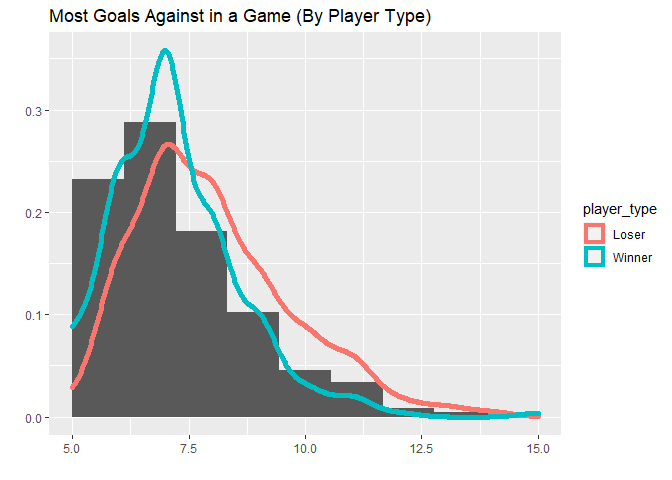
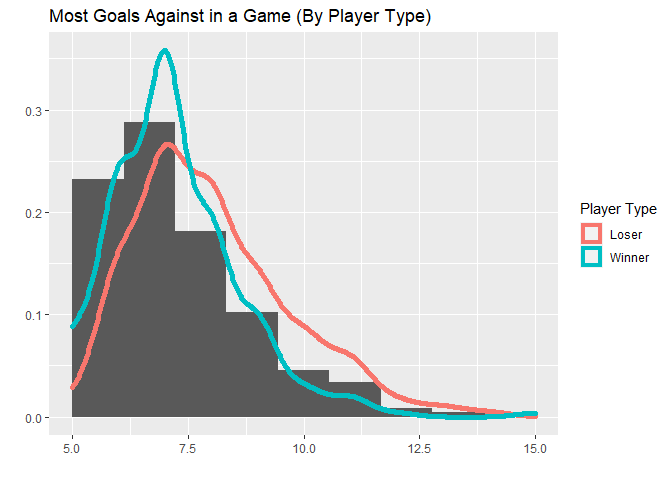
fixing label for last graph legend

diff --git a/readme.html b/readme.html
@@ -384,7 +384,7 @@ body {
 <span id="cb12-15"><a href="#cb12-15" aria-hidden="true" tabindex="-1"></a>      <span class="fu">xlab</span>(<span class="st">&#39;&#39;</span>) <span class="sc">+</span> <span class="fu">ylab</span>(<span class="st">&#39;Goals Conceded&#39;</span>)</span></code></pre></div>
 <p>Though I expected there to be a difference to be winning and losing teams, the difference is quite stark. Neither boxplot really intersects the other for goals given up or scored.</p>
 <div class="sourceCode" id="cb13"><pre class="sourceCode r"><code class="sourceCode r"><span id="cb13-1"><a href="#cb13-1" aria-hidden="true" tabindex="-1"></a><span class="fu">grid.arrange</span>(p1, p2, <span class="at">ncol=</span><span class="dv">2</span>)</span></code></pre></div>
[2 lines of base64/hex data omitted]
 <h4 id="histograms">Histograms</h4>
 <p>Here we will do a histogram of goals given up by goalies, with a density for each player type (winner or loser).</p>
 <div class="sourceCode" id="cb14"><pre class="sourceCode r"><code class="sourceCode r"><span id="cb14-1"><a href="#cb14-1" aria-hidden="true" tabindex="-1"></a>goalies <span class="ot">&lt;-</span> <span class="fu">get_nhl_data</span>(<span class="st">&#39;Goalies&#39;</span>) <span class="sc">%&gt;%</span> <span class="fu">drop_na</span>(mostSavesOneGame,</span>
@@ -396,13 +396,13 @@ body {
 <span id="cb14-7"><a href="#cb14-7" aria-hidden="true" tabindex="-1"></a>p <span class="ot">&lt;-</span> <span class="fu">ggplot</span>(<span class="at">data=</span>goalies, <span class="fu">aes</span>(<span class="at">x=</span>mostGoalsAgainstOneGame)) <span class="sc">+</span></span>
 <span id="cb14-8"><a href="#cb14-8" aria-hidden="true" tabindex="-1"></a>        <span class="fu">geom_histogram</span>(<span class="fu">aes</span>(<span class="at">y=</span>..density..), <span class="at">bins=</span><span class="dv">10</span>) <span class="sc">+</span></span>
 <span id="cb14-9"><a href="#cb14-9" aria-hidden="true" tabindex="-1"></a>        <span class="fu">geom_density</span>(<span class="fu">aes</span>(<span class="at">color=</span>player_type), <span class="at">kernel=</span><span class="st">&#39;gaussian&#39;</span>, <span class="at">size=</span><span class="dv">2</span>) <span class="sc">+</span></span>
-<span id="cb14-10"><a href="#cb14-10" aria-hidden="true" tabindex="-1"></a>        <span class="fu">guides</span>(<span class="at">fill=</span><span class="fu">guide_legend</span>(<span class="at">title=</span><span class="st">&quot;Player Type&quot;</span>)) <span class="sc">+</span></span>
+<span id="cb14-10"><a href="#cb14-10" aria-hidden="true" tabindex="-1"></a>        <span class="fu">guides</span>(<span class="at">color=</span><span class="fu">guide_legend</span>(<span class="at">title=</span><span class="st">&quot;Player Type&quot;</span>)) <span class="sc">+</span></span>
 <span id="cb14-11"><a href="#cb14-11" aria-hidden="true" tabindex="-1"></a>        <span class="fu">ggtitle</span>(<span class="st">&#39;Most Goals Against in a Game (By Player Type)&#39;</span>) <span class="sc">+</span></span>
 <span id="cb14-12"><a href="#cb14-12" aria-hidden="true" tabindex="-1"></a>        <span class="fu">guides</span>(<span class="at">fill=</span><span class="fu">guide_legend</span>(<span class="at">title=</span><span class="st">&quot;Player Type&quot;</span>)) <span class="sc">+</span></span>
 <span id="cb14-13"><a href="#cb14-13" aria-hidden="true" tabindex="-1"></a>        <span class="fu">xlab</span>(<span class="st">&#39;&#39;</span>) <span class="sc">+</span> <span class="fu">ylab</span>(<span class="st">&#39;&#39;</span>)</span></code></pre></div>
 <p>As we can see, most goalies have a worst game of around 6-7 goals. And this is true for both “winner” and “loser” goalies - though by adding the kernel over top, we can see that the winner goalies kernel is slighly more right skewed and more centered on the 6-7 range.</p>
 <div class="sourceCode" id="cb15"><pre class="sourceCode r"><code class="sourceCode r"><span id="cb15-1"><a href="#cb15-1" aria-hidden="true" tabindex="-1"></a><span class="fu">grid.arrange</span>(p)</span></code></pre></div>
[2 lines of base64/hex data omitted]
 
 </body>
 </html>

diff --git a/readme.md b/readme.md
@@ -424,7 +424,7 @@ goalies <- get_nhl_data('Goalies') %>% drop_na(mostSavesOneGame,
 p <- ggplot(data=goalies, aes(x=mostGoalsAgainstOneGame)) +
         geom_histogram(aes(y=..density..), bins=10) +
         geom_density(aes(color=player_type), kernel='gaussian', size=2) +
-        guides(fill=guide_legend(title="Player Type")) +
+        guides(color=guide_legend(title="Player Type")) +
         ggtitle('Most Goals Against in a Game (By Player Type)') +
         guides(fill=guide_legend(title="Player Type")) +
         xlab('') + ylab('')
